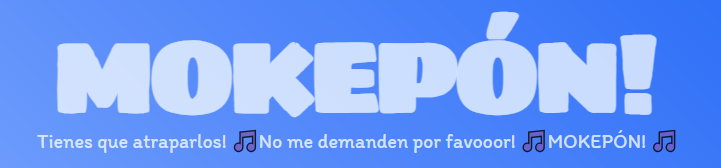
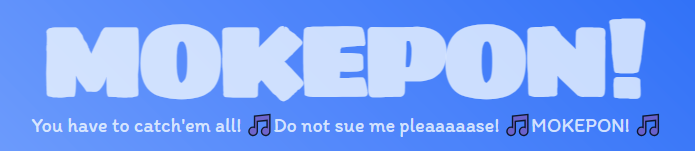
Translated README file to english

Changed region(s): [[0.0604, 0.053, 0.9367, 0.7152], [0.0302, 0.7417, 0.9669, 0.9272]]

diff --git a/README.md b/README.md
@@ -1,53 +1,55 @@
 ![Mokepon!](public/assets/readme-title.PNG)
 
-Una página web en la que juegas a un videojuego multijugador local similar al piedra, papel o tijeras, pero con mascotas elementales.
+A web page where you play a local multiplayer video game similar to rock-paper-scissors but with elemental pets.
 
-Para poder jugar, necesitas una computadora que actúe como servidor local al cual los jugadores se puedan conectar desde el navegador de sus dispositivos (chrome, firefox, edge, etc).
+In order to play, you need a computer that acts as a local server to which players can connect from their device's browser (chrome, firefox, edge, etc).
 
-Para esto usaremos una herramienta llamada **Node.js**. Si nunca la instalaste, a continuación te muestro cómo hacerlo.
+For this we will use a tool called **Node.js**. If you've never installed it, here's how to do it.
 
 ## How to install Node.js
 
-Primero que nada descargaremos la herramienta desde su [página web oficial](https://nodejs.org/en) haciendo clic en la versión **LTS**, ya que es la versión más estable. Esto descargará un instalador a su computadora.
+First of all we will download the tool from its [official website](https://nodejs.org/en) by clicking on the **LTS** version, since it is the most stable version. This will download an installer to your computer.
 
-Una vez descargado ejecutamos el instalador, le damos a siguiente varias veces y luego a instalar. Las opciones de instalación que vienen por defecto están bien, aunque siempre puedes cambiar la que te parezca oportuna. La única que **NO** debes cambiar es una opción de instalación llamada **Add to PATH**, ya que nos facilitará iniciar el servidor.
+Once downloaded, we run the installer, click on **next** several times and then **install**. Although the default installation options are fine, you can always change anything except an option called **Add to PATH**, as it will make it easier for us to run the server.
 
-Una vez instalado, descarga el repositorio haciendo click en **Code > Download ZIP**. Extrae la carpeta donde quieras.
+Once installed, download the repository by clicking **Code > Download ZIP**. Extract the folder wherever you want.
 
-## Launch the server
+## Run the server
 
-Para iniciar el servidor deberemos abrir la consola de comandos escribiendo en la barra de búsqueda "Simbolo del sistema" (**Windows**), "Terminal" (**Mac**) o desde el menú de aplicaciones (**Mac**/**Linux**).
+To run the server we must open the command console by typing in the search bar "Command Prompt" (**Windows**), "Terminal" (**Mac**) or from the applications menu (**Mac**/**Linux**).
 
-Una vez abierta, realizamos lo siguiente:
+Once open, we'll enter the following commands:
 
 ### Windows
 
--  Si guardaste la carpeta en otra unidad diferente a C: (reemplaza **D:** por tu unidad)
+-  If you saved the folder to a drive other than C: (replace **D:** with your drive)
     - D:
-- Nos movemos al directorio de la carpeta que extragimos
-    - cd "D:\path\to\dir"
-- Iniciamos el servidor
+- We move to the directory of the extracted folder
+    - cd "D:\path\to\mokepon"
+- We run the server
     - node index.js
 
 ### Mac/Linux
 
-- Nos movemos al directorio raíz
+- We move to the root directory
     - cd~
-- Nos movemos al directorio de la carpeta que extragimos
-    - cd /path/to/dir
-- Iniciamos el servidor
+- We move to the directory of the extracted folder
+    - cd /path/to/mokepon
+- We run the server
     - node index.js
 
-Espera un momento a que se inicie el servidor. Cuando ya esté funcionando, te aparecerá el mensaje **Server working!** en la consola.
+Wait a moment for the server to start. When it is working, the message **Server working!** will appear on the console.
 
-LISTO! Ahora puedes jugar al juego escribiendo la dirección IP del servidor en la barra de búsqueda de cualquier navegador + el puerto 8080. Ejemplo: **192.168.1.3:8080**
+ALL READY! Now you can play the game by typing the server IP address in the search bar of any browser + port 8080. Example: **192.168.1.3:8080**
 
-Para saber la dirección IP, escribe y ejecuta la siguiente línea en tu terminal o consola de comandos:
+Remember that **this only works with devices that are in the same local network**.
+
+To find out the IP address, type and execute the following line in your terminal or command console:
 - ipconfig (**Win**)
-    - Busca la que dice "Dirección IPv4..."
+    - Look for the one that says "IPv4 Address..."
 - ifconfig (**Linux**)
-    - La dirección está luego de "inet"
-- Si estás en **Mac**
+    - The address is after "inet"
+- If you're in **Mac**
     - ipconfig getifaddr en0 (**WiFi**)
     - ipconfig getifaddr en1 (**Ethernet**)
 
